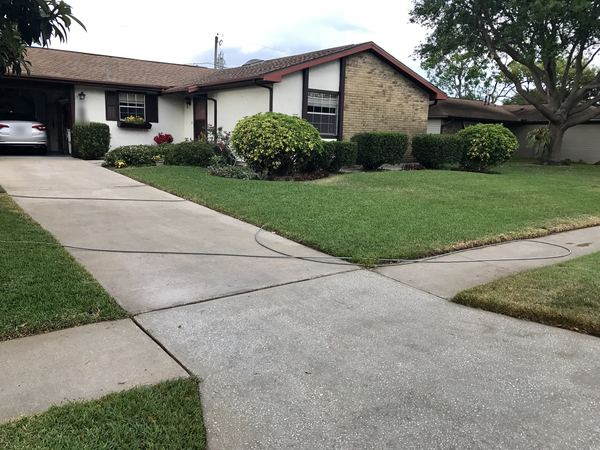
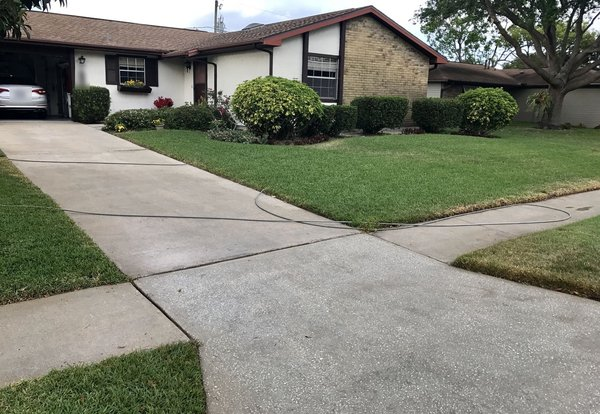
Trim sky from the Titusville mailbox and sky-heavy house pairs (?v=20261109a) (#65)
The same top crop is applied to both photos in each pair so the frames still match.

diff --git a/pressure-washing/index.html b/pressure-washing/index.html
@@ -28,7 +28,7 @@
   <link rel="preconnect" href="https://fonts.googleapis.com">
   <link rel="preconnect" href="https://fonts.gstatic.com" crossorigin>
   <link rel="stylesheet" href="https://fonts.googleapis.com/css2?family=Plus+Jakarta+Sans:wght@400;500;600;700;800&amp;display=swap">
-  <link rel="stylesheet" href="/css/styles.css?v=20261108z">
+  <link rel="stylesheet" href="/css/styles.css?v=20261109a">
 
   <script type="application/ld+json" id="business-jsonld">
 {
@@ -520,12 +520,12 @@
         <div class="lead-pair">
         <figure class="pair pair--split">
           <div class="pair__grid">
-            <button type="button" class="shot" data-full="/images/gallery/titusville-driveway-4-before.jpg" data-alt="Before cleaning: concrete driveway and front lawn of a single-story home" data-w="1600" data-h="1200">
-              <img src="/images/gallery/thumbs/titusville-driveway-4-before.jpg" alt="Before cleaning: concrete driveway and front lawn of a single-story home" width="600" height="450" loading="eager" decoding="async">
+            <button type="button" class="shot" data-full="/images/gallery/titusville-driveway-4-before.jpg" data-alt="Before cleaning: concrete driveway and front lawn of a single-story home" data-w="1600" data-h="1104">
+              <img src="/images/gallery/thumbs/titusville-driveway-4-before.jpg" alt="Before cleaning: concrete driveway and front lawn of a single-story home" width="600" height="414" loading="eager" decoding="async">
               <span class="shot__tag">Before</span>
             </button>
-            <button type="button" class="shot" data-full="/images/gallery/titusville-driveway-4-after.jpg" data-alt="After cleaning: concrete driveway and front lawn of a single-story home" data-w="1600" data-h="1200">
-              <img src="/images/gallery/thumbs/titusville-driveway-4-after.jpg" alt="After cleaning: concrete driveway and front lawn of a single-story home" width="600" height="450" loading="eager" decoding="async">
+            <button type="button" class="shot" data-full="/images/gallery/titusville-driveway-4-after.jpg" data-alt="After cleaning: concrete driveway and front lawn of a single-story home" data-w="1600" data-h="1104">
+              <img src="/images/gallery/thumbs/titusville-driveway-4-after.jpg" alt="After cleaning: concrete driveway and front lawn of a single-story home" width="600" height="414" loading="eager" decoding="async">
               <span class="shot__tag">After cleaning</span>
             </button>
           </div>
@@ -607,12 +607,12 @@
           </figure>
           <figure class="pair pair--split">
             <div class="pair__grid">
-              <button type="button" class="shot" data-full="/images/gallery/titusville-long-driveway-before.jpg" data-alt="Before cleaning: long curved concrete driveway leading to a home" data-w="1200" data-h="1600">
-                <img src="/images/gallery/thumbs/titusville-long-driveway-before.jpg" alt="Before cleaning: long curved concrete driveway leading to a home" width="600" height="800" loading="lazy" decoding="async">
+              <button type="button" class="shot" data-full="/images/gallery/titusville-long-driveway-before.jpg" data-alt="Before cleaning: long curved concrete driveway leading to a home" data-w="1200" data-h="1440">
+                <img src="/images/gallery/thumbs/titusville-long-driveway-before.jpg" alt="Before cleaning: long curved concrete driveway leading to a home" width="600" height="720" loading="lazy" decoding="async">
                 <span class="shot__tag">Before</span>
               </button>
-              <button type="button" class="shot" data-full="/images/gallery/titusville-long-driveway-after.jpg" data-alt="After cleaning: long curved concrete driveway leading to a home" data-w="1200" data-h="1600">
-                <img src="/images/gallery/thumbs/titusville-long-driveway-after.jpg" alt="After cleaning: long curved concrete driveway leading to a home" width="600" height="800" loading="lazy" decoding="async">
+              <button type="button" class="shot" data-full="/images/gallery/titusville-long-driveway-after.jpg" data-alt="After cleaning: long curved concrete driveway leading to a home" data-w="1200" data-h="1440">
+                <img src="/images/gallery/thumbs/titusville-long-driveway-after.jpg" alt="After cleaning: long curved concrete driveway leading to a home" width="600" height="720" loading="lazy" decoding="async">
                 <span class="shot__tag">After cleaning</span>
               </button>
             </div>

diff --git a/404.html b/404.html
@@ -26,7 +26,7 @@
   <link rel="preconnect" href="https://fonts.googleapis.com">
   <link rel="preconnect" href="https://fonts.gstatic.com" crossorigin>
   <link rel="stylesheet" href="https://fonts.googleapis.com/css2?family=Plus+Jakarta+Sans:wght@400;500;600;700;800&amp;display=swap">
-  <link rel="stylesheet" href="/css/styles.css?v=20261108z">
+  <link rel="stylesheet" href="/css/styles.css?v=20261109a">
 
   <script type="application/ld+json" id="business-jsonld">
 {

diff --git a/about/index.html b/about/index.html
@@ -28,7 +28,7 @@
   <link rel="preconnect" href="https://fonts.googleapis.com">
   <link rel="preconnect" href="https://fonts.gstatic.com" crossorigin>
   <link rel="stylesheet" href="https://fonts.googleapis.com/css2?family=Plus+Jakarta+Sans:wght@400;500;600;700;800&amp;display=swap">
-  <link rel="stylesheet" href="/css/styles.css?v=20261108z">
+  <link rel="stylesheet" href="/css/styles.css?v=20261109a">
 
   <script type="application/ld+json" id="business-jsonld">
 {

diff --git a/index.html b/index.html
@@ -28,7 +28,7 @@
   <link rel="preconnect" href="https://fonts.googleapis.com">
   <link rel="preconnect" href="https://fonts.gstatic.com" crossorigin>
   <link rel="stylesheet" href="https://fonts.googleapis.com/css2?family=Plus+Jakarta+Sans:wght@400;500;600;700;800&amp;display=swap">
-  <link rel="stylesheet" href="/css/styles.css?v=20261108z">
+  <link rel="stylesheet" href="/css/styles.css?v=20261109a">
 
   <script type="application/ld+json" id="business-jsonld">
 {

diff --git a/paver-sealing/index.html b/paver-sealing/index.html
@@ -28,7 +28,7 @@
   <link rel="preconnect" href="https://fonts.googleapis.com">
   <link rel="preconnect" href="https://fonts.gstatic.com" crossorigin>
   <link rel="stylesheet" href="https://fonts.googleapis.com/css2?family=Plus+Jakarta+Sans:wght@400;500;600;700;800&amp;display=swap">
-  <link rel="stylesheet" href="/css/styles.css?v=20261108z">
+  <link rel="stylesheet" href="/css/styles.css?v=20261109a">
 
   <script type="application/ld+json" id="business-jsonld">
 {

diff --git a/pricing/index.html b/pricing/index.html
@@ -28,7 +28,7 @@
   <link rel="preconnect" href="https://fonts.googleapis.com">
   <link rel="preconnect" href="https://fonts.gstatic.com" crossorigin>
   <link rel="stylesheet" href="https://fonts.googleapis.com/css2?family=Plus+Jakarta+Sans:wght@400;500;600;700;800&amp;display=swap">
-  <link rel="stylesheet" href="/css/styles.css?v=20261108z">
+  <link rel="stylesheet" href="/css/styles.css?v=20261109a">
 
   <script type="application/ld+json" id="business-jsonld">
 {

diff --git a/sealer-stripping/index.html b/sealer-stripping/index.html
@@ -28,7 +28,7 @@
   <link rel="preconnect" href="https://fonts.googleapis.com">
   <link rel="preconnect" href="https://fonts.gstatic.com" crossorigin>
   <link rel="stylesheet" href="https://fonts.googleapis.com/css2?family=Plus+Jakarta+Sans:wght@400;500;600;700;800&amp;display=swap">
-  <link rel="stylesheet" href="/css/styles.css?v=20261108z">
+  <link rel="stylesheet" href="/css/styles.css?v=20261109a">
 
   <script type="application/ld+json" id="business-jsonld">
 {

diff --git a/service-area/index.html b/service-area/index.html
@@ -28,7 +28,7 @@
   <link rel="preconnect" href="https://fonts.googleapis.com">
   <link rel="preconnect" href="https://fonts.gstatic.com" crossorigin>
   <link rel="stylesheet" href="https://fonts.googleapis.com/css2?family=Plus+Jakarta+Sans:wght@400;500;600;700;800&amp;display=swap">
-  <link rel="stylesheet" href="/css/styles.css?v=20261108z">
+  <link rel="stylesheet" href="/css/styles.css?v=20261109a">
 
   <script type="application/ld+json" id="business-jsonld">
 {

diff --git a/soft-washing/index.html b/soft-washing/index.html
@@ -28,7 +28,7 @@
   <link rel="preconnect" href="https://fonts.googleapis.com">
   <link rel="preconnect" href="https://fonts.gstatic.com" crossorigin>
   <link rel="stylesheet" href="https://fonts.googleapis.com/css2?family=Plus+Jakarta+Sans:wght@400;500;600;700;800&amp;display=swap">
-  <link rel="stylesheet" href="/css/styles.css?v=20261108z">
+  <link rel="stylesheet" href="/css/styles.css?v=20261109a">
 
   <script type="application/ld+json" id="business-jsonld">
 {

diff --git a/driveway-pool-deck-package/index.html b/driveway-pool-deck-package/index.html
@@ -28,7 +28,7 @@
   <link rel="preconnect" href="https://fonts.googleapis.com">
   <link rel="preconnect" href="https://fonts.gstatic.com" crossorigin>
   <link rel="stylesheet" href="https://fonts.googleapis.com/css2?family=Plus+Jakarta+Sans:wght@400;500;600;700;800&amp;display=swap">
-  <link rel="stylesheet" href="/css/styles.css?v=20261108z">
+  <link rel="stylesheet" href="/css/styles.css?v=20261109a">
 
   <script type="application/ld+json">
 {

diff --git a/gallery/index.html b/gallery/index.html
@@ -28,7 +28,7 @@
   <link rel="preconnect" href="https://fonts.googleapis.com">
   <link rel="preconnect" href="https://fonts.gstatic.com" crossorigin>
   <link rel="stylesheet" href="https://fonts.googleapis.com/css2?family=Plus+Jakarta+Sans:wght@400;500;600;700;800&amp;display=swap">
-  <link rel="stylesheet" href="/css/styles.css?v=20261108z">
+  <link rel="stylesheet" href="/css/styles.css?v=20261109a">
 </head>
 <body>
 
